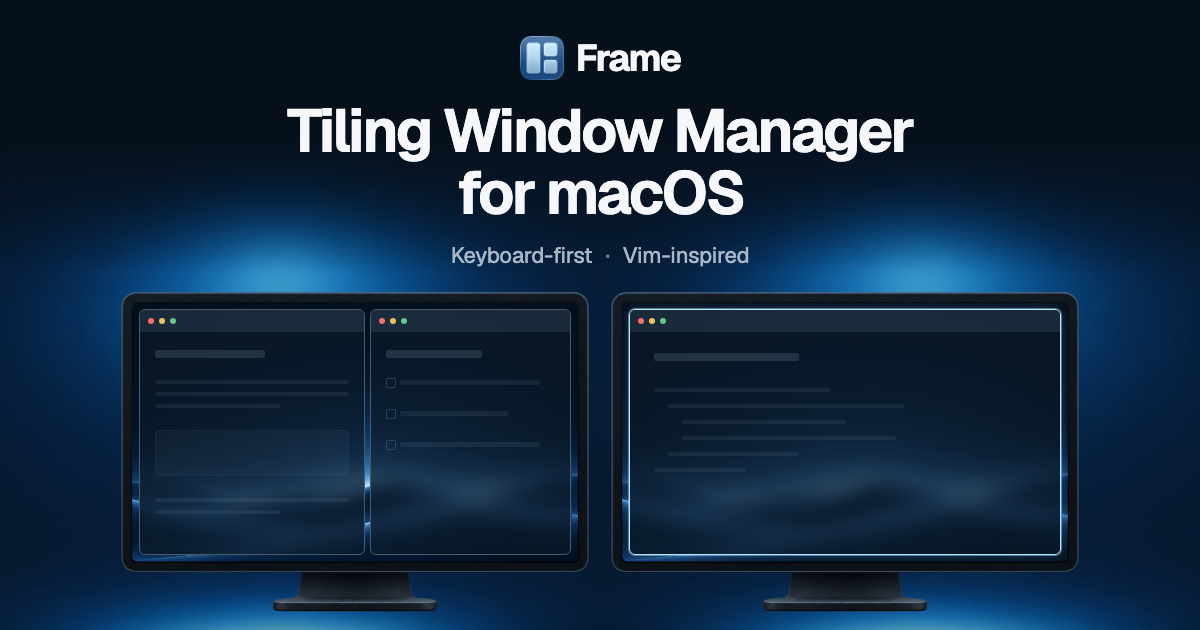
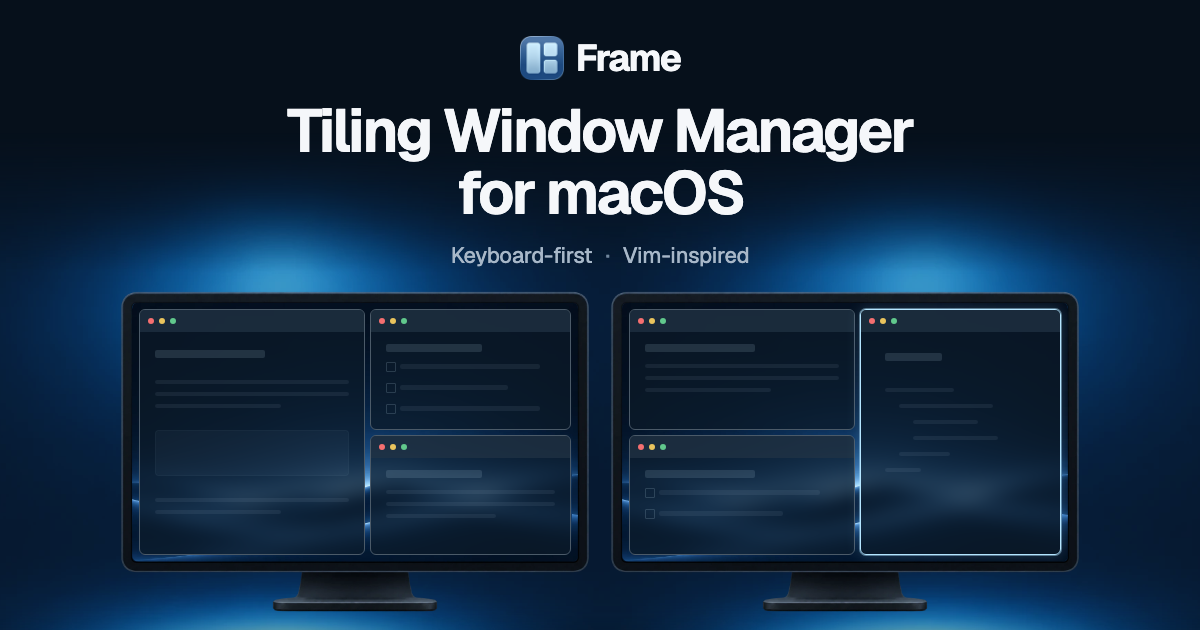
Show tiled columns and stacked rows on both social-card screens

diff --git a/scripts/social-card.html b/scripts/social-card.html
@@ -24,18 +24,43 @@
                 <div class="lines"><i></i><i></i></div>
               </div>
             </div>
-            <div class="window notes">
-              <div class="titlebar"><i></i><i></i><i></i></div>
-              <div class="content">
-                <b></b>
-                <div class="notes-list"><i></i><i></i><i></i></div>
+            <div class="column-stack">
+              <div class="window notes">
+                <div class="titlebar"><i></i><i></i><i></i></div>
+                <div class="content">
+                  <b></b>
+                  <div class="notes-list"><i></i><i></i><i></i></div>
+                </div>
+              </div>
+              <div class="window">
+                <div class="titlebar"><i></i><i></i><i></i></div>
+                <div class="content">
+                  <b></b>
+                  <div class="lines"><i></i><i></i><i></i></div>
+                </div>
               </div>
             </div>
           </div>
           <img class="hardware" src="/monitor-shell.webp" width="1400" height="960" alt="" />
         </div>
         <div class="monitor">
-          <div class="screen">
+          <div class="screen two-columns">
+            <div class="column-stack">
+              <div class="window">
+                <div class="titlebar"><i></i><i></i><i></i></div>
+                <div class="content">
+                  <b></b>
+                  <div class="lines"><i></i><i></i><i></i></div>
+                </div>
+              </div>
+              <div class="window notes">
+                <div class="titlebar"><i></i><i></i><i></i></div>
+                <div class="content">
+                  <b></b>
+                  <div class="notes-list"><i></i><i></i></div>
+                </div>
+              </div>
+            </div>
             <div class="window editor focused">
               <div class="titlebar"><i></i><i></i><i></i></div>
               <div class="content">

diff --git a/index.html b/index.html
@@ -28,7 +28,7 @@
     <meta property="og:image:height" content="630" />
     <meta
       property="og:image:alt"
-      content="Frame tiling window manager for macOS, showing three tiled windows across two monitors."
+      content="Frame tiling window manager for macOS, showing tiled columns and stacked windows across two monitors."
     />
     <meta name="twitter:card" content="summary_large_image" />
     <meta name="twitter:title" content="Frame — Tiling Window Manager for macOS" />
@@ -39,7 +39,7 @@
     <meta name="twitter:image" content="https://frame.tvr.works/social-card.png" />
     <meta
       name="twitter:image:alt"
-      content="Frame tiling window manager for macOS, showing three tiled windows across two monitors."
+      content="Frame tiling window manager for macOS, showing tiled columns and stacked windows across two monitors."
     />
   </head>
   <body>

diff --git a/guide.html b/guide.html
@@ -29,7 +29,7 @@
     <meta property="og:image:height" content="630" />
     <meta
       property="og:image:alt"
-      content="Frame tiling window manager for macOS, showing three tiled windows across two monitors."
+      content="Frame tiling window manager for macOS, showing tiled columns and stacked windows across two monitors."
     />
     <meta name="twitter:card" content="summary_large_image" />
     <meta name="twitter:title" content="User guide — Frame" />
@@ -40,7 +40,7 @@
     <meta name="twitter:image" content="https://frame.tvr.works/social-card.png" />
     <meta
       name="twitter:image:alt"
-      content="Frame tiling window manager for macOS, showing three tiled windows across two monitors."
+      content="Frame tiling window manager for macOS, showing tiled columns and stacked windows across two monitors."
     />
   </head>
   <body>

diff --git a/scripts/social-card.css b/scripts/social-card.css
@@ -108,10 +108,18 @@ h1 {
   gap: 5px;
 }
 .two-columns {
-  grid-template-columns: 1.12fr 1fr;
+  grid-template-columns: minmax(0, 1.12fr) minmax(0, 1fr);
+  grid-template-rows: minmax(0, 1fr);
+}
+.column-stack {
+  display: grid;
+  grid-template-rows: repeat(2, minmax(0, 1fr));
+  gap: 5px;
+  min-height: 0;
 }
 .window {
   min-width: 0;
+  min-height: 0;
   border: 1px solid #4b5a68;
   border-radius: 6px;
   overflow: hidden;
@@ -237,4 +245,12 @@ h1 {
 }
 .code i:nth-child(6) {
   width: 24%;
+}
+
+.column-stack .content {
+  padding: 12px 15px;
+  gap: 12px;
+}
+.column-stack .notes-list {
+  gap: 16px;
 }

diff --git a/design-qa.md b/design-qa.md
@@ -396,3 +396,11 @@ The editable HTML/CSS and local-only renderer live under scripts/. npm run asset
 Opened and inspected the full-size card and cleanup/social-card-polished-600.png at 600 × 315. The brand/title remain readable at half size, with no tiny navigation or demo control text. Browser plugin not available; the existing pinned Playwright Chromium renderer produced the artwork/preview. No homepage or guide layout changed. Formatting, Oxlint/shadcn, Stylelint, TypeScript, 73 unit tests, 50 Chromium/WebKit browser cases and eight production artifact cases pass. The latter load the new image and compare its dimensions/MIME type against both pages’ metadata. Preview mode was restored. Live sharing-platform crop/cache behavior remains a publication check.
 
 final result: passed
+
+## Review update: show columns and rows in the social card
+
+Revised both screens at the owner’s request so each has a tall window beside a column of two stacked windows. The two arrangements mirror each other, and one window retains the focus outline. Compact window content fits within the shorter rows; branding, headline, monitor hardware and backdrop retain their previous positions. The image alternatives and design-system notes now describe columns and stacked windows rather than the earlier three-window scene.
+
+Opened and inspected the 1200 × 630 output and cleanup/social-card-tiled-600.png at 600 × 315. Both column splits and row splits remain visible at thumbnail size without adding labels or controls. The PNG is 255,565 bytes. Existing pinned Playwright tooling was used; Browser plugin not available. Formatting, lint, TypeScript, 73 unit tests, 50 browser cases and eight production artifact checks pass. Preview indexing mode is restored.
+
+final result: passed

diff --git a/docs/design-system.md b/docs/design-system.md
@@ -33,7 +33,7 @@ The site, homepage and guide style owners use color tokens. The root palette def
 
 ## Social card
 
-The 1200 × 630 card is a dedicated composition, rather than a homepage screenshot. It uses the existing Geist font, Frame icon, matte monitor hardware, wallpaper and blue backdrop. A larger two-line title establishes the product category, with “Keyboard-first · Vim-inspired” beneath it. Three quiet windows and one focus outline convey tiling across two monitors. Navigation, workspace numbers, playback controls, action captions and the shortcut ladder are omitted at this scale.
+The 1200 × 630 card is a dedicated composition, rather than a homepage screenshot. It uses the existing Geist font, Frame icon, matte monitor hardware, wallpaper and blue backdrop. A larger two-line title establishes the product category, with “Keyboard-first · Vim-inspired” beneath it. Each monitor shows a tall window beside a column of two stacked windows. The mirrored arrangements and one focus outline make the column/row tiling visible at thumbnail size. Navigation, workspace numbers, playback controls, action captions and the shortcut ladder are omitted at this scale.
 
 Editable source lives in scripts/social-card.html and scripts/social-card.css. Run npm run assets:social with the pinned Chromium browser available to regenerate public/social-card.png. The renderer serves only its explicit local resource map, waits for fonts/images, rejects failed resource loads, and checks the output dimensions and size. The template and renderer are not shipped. Production builds use the committed PNG and do not need a browser. CSS lint covers the asset stylesheet as well as src styles.
 
